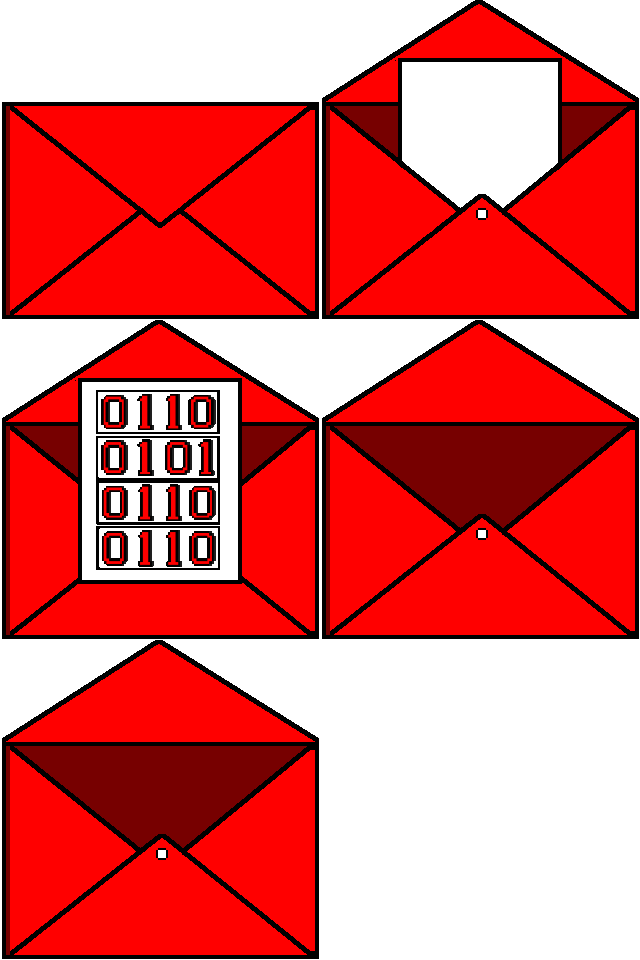
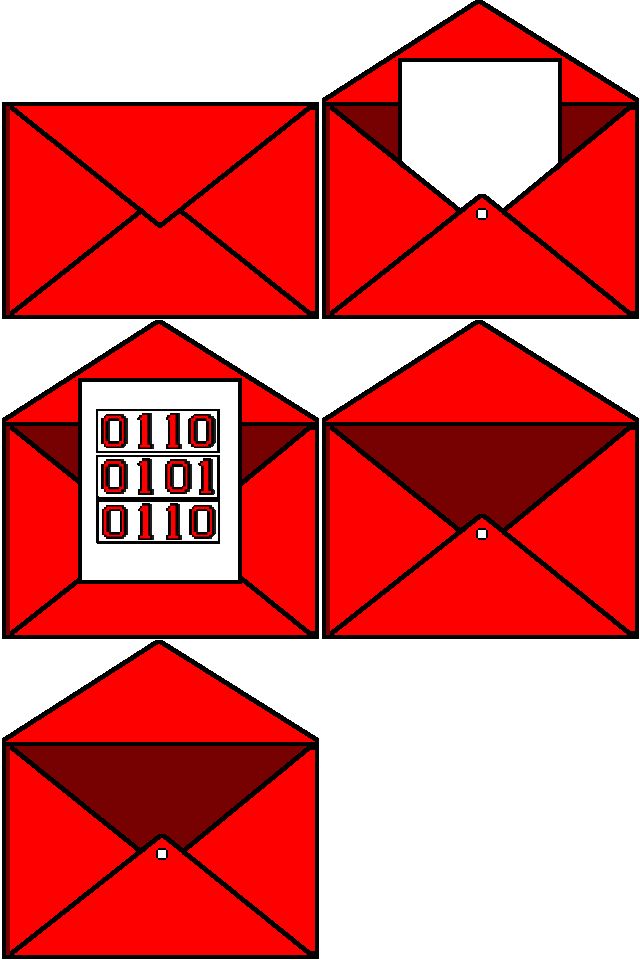
Adicionando sceneInicial no jogo e alterações no diálogo de sceneLBPassado

Changed region(s): [[0.125, 0.4062, 0.3438, 0.5938]]

diff --git a/src/scenes/sceneInicial.js b/src/scenes/sceneInicial.js
@@ -1,0 +1,184 @@
+export class sceneInicial extends Phaser.Scene {
+    constructor() {
+        super("sceneInicial");
+    }
+
+    preload() {
+        this.load.image("labBranco", "assets/Fases/sceneLBPassado/labBranco.png");
+        this.load.image("objetosLab", "assets/Objetos/sceneLBPassado/partOne/objetosLabBNorm.png");
+        this.load.spritesheet("watson", "assets/personagens/watson.png", {
+            frameWidth: 64,
+            frameHeight: 64,
+        });
+        this.load.spritesheet("sophia", "assets/personagens/sophia.png", {
+            frameWidth: 64,
+            frameHeight: 64,
+        });
+    }
+
+    create() {
+        this.cameras.main.fadeIn(1000, 0, 0, 0);
+
+        const larguraJogo = this.cameras.main.width;
+        const alturaJogo = this.cameras.main.height;
+
+        this.scaleMapa = 4;
+
+        this.mapa = this.add.image(this.cameras.main.centerX, this.cameras.main.centerY, "labBranco").setScale(this.scaleMapa).setDepth(-1);
+        this.objetos = this.add.image(this.cameras.main.centerX, this.cameras.main.centerY, "objetosLab").setScale(this.scaleMapa).setDepth(-1);
+
+        let escurecerFundo = this.add.rectangle(0, 0, larguraJogo, alturaJogo, 0x000000);
+        escurecerFundo.setOrigin(0, 0).setAlpha(0.9).setDepth(-1);
+
+        // Personagens posicionados e inicialmente invisíveis
+        this.watson = this.add.sprite(larguraJogo - 300, alturaJogo - 250, "watson").setScale(20).setVisible(false);
+        this.sophia = this.add.sprite(300, alturaJogo - 250, "sophia").setScale(18).setFlipX(true).setVisible(false);
+
+        // Caixa de Diálogo
+        const larguraCaixa = 1300;
+        const alturaCaixa = 175; 
+        const xCaixa = (larguraJogo - larguraCaixa) / 2;
+        const yCaixa = alturaJogo - alturaCaixa - 50;
+
+        this.caixaDialogo = this.add.graphics();
+        this.caixaDialogo.fillStyle(0x1a1a1a, 0.9);
+        this.caixaDialogo.lineStyle(2, 0x00ffff, 1);
+        this.caixaDialogo.fillRoundedRect(xCaixa, yCaixa, larguraCaixa, alturaCaixa, 15);
+        this.caixaDialogo.strokeRoundedRect(xCaixa, yCaixa, larguraCaixa, alturaCaixa, 15);
+        this.caixaDialogo.setDepth(1000).setVisible(false);
+
+        this.textoDialogo = this.add.text(xCaixa + 40, yCaixa + 35, "", {
+            fontSize: "28px",
+            fontFamily: "'Courier New', Courier, monospace",
+            color: "#ccffff",
+            wordWrap: { width: larguraCaixa - 80 },
+            lineSpacing: 8,
+        }).setDepth(1001).setVisible(false);
+
+        this.labelNome = this.add.text(xCaixa + 16, yCaixa - 28, "", {
+            fontSize: "22px",
+            fontFamily: "'Courier New', Courier, monospace",
+            color: "#00ffff",
+            fontStyle: "bold",
+            backgroundColor: "#1a1a1a",
+            padding: { left: 8, right: 8, top: 3, bottom: 3 },
+        }).setDepth(1002).setVisible(false);
+
+        this.teclaE = this.input.keyboard.addKey(Phaser.Input.Keyboard.KeyCodes.E);
+
+        // diálogos
+        this.indiceDialogo = 0;
+        this.dialogos = [
+            { 
+                nome: "Watson", 
+                personagem: this.watson,
+                texto: "Sophia, os resultados finais das simulações foram liberados para toda equipe." 
+            },
+            { 
+                nome: "Watson", 
+                personagem: this.watson,
+                texto: "Minha preocupação em relação ao uso da tecnologia no futuro apenas aumenta e os testes expuseram a probabilidade crescente de grande uso indevido de tecnologias atuais e emergentes." 
+            },
+            { 
+                nome: "Watson", 
+                personagem: this.watson,
+                texto: "Temo que no futuro os humanos possam ficar dependentes de algo maior ou até pior que isso…" 
+            },
+            { 
+                nome: "Watson", 
+                personagem: this.watson,
+                texto: "Assim, preciso lhe pedir algo, eu e uma equipe montamos um projeto para que, caso haja uma crise tecnológica no futuro, teremos alguém preparado para consertar o problema." 
+            },
+            { 
+                nome: "Watson", 
+                personagem: this.watson,
+                texto: "Deixaremos alguém congelado em uma câmara e, quando e se for necessário, essa pessoa será liberada para ajudar no que for necessário." 
+            },
+            { 
+                nome: "Watson", 
+                personagem: this.watson,
+                texto: "Nós pensamos que para esse projeto ninguém seria melhor do que você, mas claro, apenas se você aceitar nossa proposta…" 
+            },
+            { 
+                nome: "Sophia", 
+                personagem: this.sophia,
+                texto: "Não sabemos o que pode acontecer no futuro… Mas estarei preparada e aceito fazer parte dessa missão." 
+            },
+            { 
+                nome: "Watson", 
+                personagem: this.watson,
+                texto: "Ótimo, então vamos nos reunir com o resto da equipe, ainda temos muitas coisas para planejar." 
+            }
+        ];
+
+        this.cameras.main.once("camerafadeincomplete", () => {
+            this.proximoPasso();
+        });
+    }
+
+    update() {
+        if (Phaser.Input.Keyboard.JustDown(this.teclaE)) {
+            this.gerenciarInteracao();
+        }
+    }
+
+    proximoPasso() {
+        if (this.indiceDialogo < this.dialogos.length) {
+            const falaAtual = this.dialogos[this.indiceDialogo];
+            
+            // Lógica de sumir um e aparecer outro
+            this.watson.setVisible(false);
+            this.sophia.setVisible(false);
+            falaAtual.personagem.setVisible(true);
+
+            this.mostrarMensagem(falaAtual.texto, falaAtual.nome);
+        } else {
+            this.finalizarCena();
+        }
+    }
+
+    mostrarMensagem(textoCompleto, nome = "") {
+        this.lendoMensagem = true;
+        this.caixaDialogo.setVisible(true);
+        this.textoDialogo.setVisible(true).setText("");
+        this.labelNome.setVisible(true).setText(nome);
+        this.textoAtualArmazenado = textoCompleto;
+
+        let letraAtual = 0;
+        if (this.timerEscrever) this.timerEscrever.remove();
+
+        this.timerEscrever = this.time.addEvent({
+            delay: 35,
+            callback: () => {
+                this.textoDialogo.text += textoCompleto[letraAtual];
+                letraAtual++;
+            },
+            repeat: textoCompleto.length - 1,
+        });
+    }
+
+    gerenciarInteracao() {
+        // Se ainda estiver "digitando" o texto, completa ele instantaneamente
+        if (this.timerEscrever && this.timerEscrever.getProgress() < 1) {
+            this.timerEscrever.remove();
+            this.textoDialogo.setText(this.textoAtualArmazenado);
+            return;
+        }
+
+        // Se o texto já acabou, pula para o próximo diálogo do array
+        this.indiceDialogo++;
+        this.proximoPasso();
+    }
+
+    finalizarCena() {
+        this.lendoMensagem = false;
+        this.caixaDialogo.setVisible(false);
+        this.textoDialogo.setVisible(false);
+        this.labelNome.setVisible(false);
+
+        this.cameras.main.fadeOut(1000);
+        this.cameras.main.once("camerafadeoutcomplete", () => {
+            this.scene.start("sceneLBPassado");
+        });
+    }
+}

diff --git a/src/scenes/sceneLBPassado.js b/src/scenes/sceneLBPassado.js
@@ -209,8 +209,8 @@ export class sceneLBPassado extends Phaser.Scene {
     // Caixa de diálogo
     const larguraJogo = this.cameras.main.width;
     const alturaJogo = this.cameras.main.height;
-    const larguraCaixa = 1000;
-    const alturaCaixa = 180;
+    const larguraCaixa = 1300;
+    const alturaCaixa = 175;
     const xCaixa = (larguraJogo - larguraCaixa) / 2;
     const yCaixa = alturaJogo - alturaCaixa - 140;
     
@@ -223,7 +223,7 @@ export class sceneLBPassado extends Phaser.Scene {
 
     this.textoDialogo = this.add
       .text(xCaixa + 40, yCaixa + 35, "", {
-        fontSize: "26px",
+        fontSize: "28px",
         fontFamily: "'Courier New', Courier, monospace",
         color: "#ccffff",
         wordWrap: { width: larguraCaixa - 80 },
@@ -252,7 +252,7 @@ export class sceneLBPassado extends Phaser.Scene {
     // Label do nome do falante — aparece acima da borda esquerda da caixa
     this.labelNome = this.add
       .text(xCaixa + 16, yCaixa - 28, "", {
-        fontSize: "20px",
+        fontSize: "22px",
         fontFamily: "'Courier New', Courier, monospace",
         color: "#00ffff",
         fontStyle: "bold",
@@ -412,10 +412,7 @@ export class sceneLBPassado extends Phaser.Scene {
       this.falando_watson = true;
       this.dialogoWatsonIndex = 0;
       this.dialogoWatson = [
-        "Sophia, temos que conversar.",
-        "As simulações mostram um futuro que me assusta. A tecnologia que criamos para ajudar as pessoas... pode acabar sendo usada para controlá-las.",
-        "E eu estou ficando velho. Quando eu não estiver mais aqui, vai ter que ser você, Sophia.",
-        "Você é a única que pode proteger o que construímos. A única que pode salvar o mundo.",
+        "Sophia, boa sorte, estaremos torcendo para que você fique sempre bem.",
       ];
       this.mostrarMensagem(this.dialogoWatson[this.dialogoWatsonIndex], "Watson");
     }

diff --git a/src/scenes/sceneLBFuturo.js b/src/scenes/sceneLBFuturo.js
@@ -243,8 +243,8 @@ export class sceneLBFuturo extends Phaser.Scene {
     // Caixa de diálogo
     const larguraJogo = this.cameras.main.width;
     const alturaJogo = this.cameras.main.height;
-    const larguraCaixa = 1000;
-    const alturaCaixa = 180;
+    const larguraCaixa = 1300;
+    const alturaCaixa = 175;
     const xCaixa = (larguraJogo - larguraCaixa) / 2;
     const yCaixa = alturaJogo - alturaCaixa - 80;
 
@@ -257,7 +257,7 @@ export class sceneLBFuturo extends Phaser.Scene {
 
     this.textoDialogo = this.add
       .text(xCaixa + 40, yCaixa + 35, "", {
-        fontSize: "26px",
+        fontSize: "28px",
         fontFamily: "'Courier New', Courier, monospace",
         color: "#ccffff",
         wordWrap: { width: larguraCaixa - 80 },
@@ -270,7 +270,7 @@ export class sceneLBFuturo extends Phaser.Scene {
     // Label do nome do falante — aparece acima da borda esquerda da caixa
     this.labelNome = this.add
       .text(xCaixa + 16, yCaixa - 28, "", {
-        fontSize: "20px",
+        fontSize: "22px",
         fontFamily: "'Courier New', Courier, monospace",
         color: "#00ffff",
         fontStyle: "bold",

diff --git a/main.js b/main.js
@@ -1,5 +1,6 @@
 import { scenePreFase4 } from "./src/scenes/scenePreFase4.js";
 import { welcomeScene } from "./src/scenes/Welcome.js";
+import { sceneInicial } from "./src/scenes/sceneInicial.js";
 import { sceneLBPassado } from "./src/scenes/sceneLBPassado.js";
 import { sceneLBFuturo } from "./src/scenes/sceneLBFuturo.js";
 import { SceneRetornoLab } from "./src/scenes/SceneRetornoLab.js";
@@ -15,6 +16,7 @@ import { BgMusic } from "./src/scenes/BgMusic.js";
 
 const config = {
   type: Phaser.AUTO,
+  pixelArt: true,
   width: 1920,
   height: 1080,
   backgroundColor: "#262540",
@@ -34,8 +36,10 @@ const config = {
   audio: {
     disableWebAudio: false,
   },
+  //scene: [sceneInicial],
   scene: [
     welcomeScene,
+    sceneInicial,
     sceneLBPassado,
     sceneLBFuturo,
     faseUm,

diff --git a/src/scenes/Welcome.js b/src/scenes/Welcome.js
@@ -26,7 +26,7 @@ export class welcomeScene extends Phaser.Scene {
         });
 
         this.play.on( "pointerdown", () => {
-            this.scene.start("sceneLBPassado")
+            this.scene.start("sceneInicial")
         })
 
         // Inicia a cena de música de fundo (bgMusic) que toca em loop para todo o jogo.
